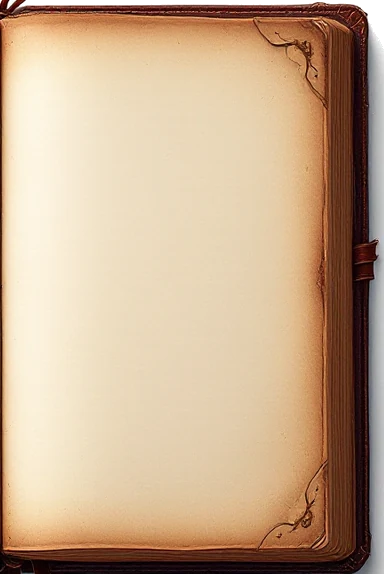
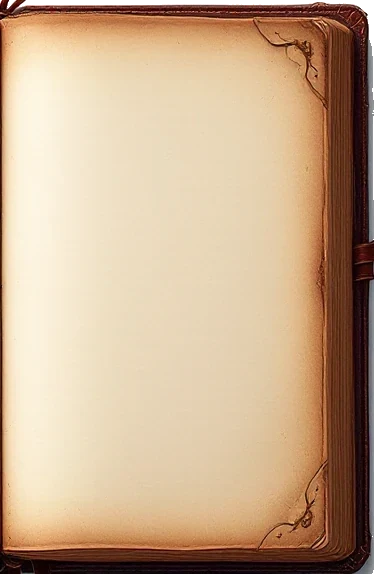
RPG-Heute: ohne Scrollen, lesbarer Kopf, hellere Tischplatte
- Rechte Spalte ab 1500 px in zwei Stapeln (Uhr/Notiz/Kalender |
  Speiseplan/Heute ist) - Stapel-Container aus js/today.js, in anderen
  Stilen display: contents mit fester order (unveraendert)
- Kopf: staerkerer Verlauf, kraeftigeres Datum, sichtbare KW-Knoepfe
- Tischplatte bei Tag mit hellerem Schleier
- Tagebuch: grauer Schattenrest am rechten Rand entfernt

diff --git a/css/today-rpg.css b/css/today-rpg.css
@@ -16,7 +16,9 @@
 
 [data-today-style="rpg"] #view-today {
   --today-frame:      color-mix(in srgb, var(--amber) 30%, var(--shadow-tint));
-  --today-board-veil: color-mix(in srgb, color-mix(in srgb, var(--bg) 55%, var(--amber)) 14%, transparent);
+  /* Tag: warmer heller Schleier über dem Mahagoni — sonst wirkt der
+     Schreibtisch bei Tageslicht zu dunkel (nachts bleibt er dunkel) */
+  --today-board-veil: color-mix(in srgb, color-mix(in srgb, var(--bg) 70%, var(--amber)) 34%, transparent);
 }
 [data-today-style="rpg"][data-theme-family="dark"] #view-today {
   --today-board-veil: color-mix(in srgb, var(--bg) 55%, transparent);
@@ -41,6 +43,39 @@
 [data-today-style="rpg"] #today-main  { padding: 18px 20px 26px; gap: 22px; }
 [data-today-style="rpg"] #today-right { padding: 22px 16px 24px; gap: 24px; width: 330px; box-sizing: border-box; }
 [data-today-style="rpg"] #today-layout { grid-template-columns: 1fr 330px; }
+
+/* Banner-Text: auf dem Bild stärker als im Standard (Datum, Tracker, KW) */
+[data-today-style="rpg"] #today-main-header {
+  --text-2: color-mix(in srgb, var(--text) 88%, transparent);
+  --text-3: color-mix(in srgb, var(--text) 78%, transparent);
+}
+[data-today-style="rpg"] #today-main-header::before {
+  background-image:
+    linear-gradient(100deg,
+      color-mix(in srgb, var(--surface-solid) 94%, transparent) 0%,
+      color-mix(in srgb, var(--surface-solid) 80%, transparent) 28%,
+      color-mix(in srgb, var(--surface-solid) 40%, transparent) 52%,
+      color-mix(in srgb, var(--surface-solid) 10%, transparent) 78%,
+      transparent 100%),
+    var(--today-header-img) !important;
+}
+[data-today-style="rpg"][data-theme-family="dark"] #today-main-header::before {
+  background-image:
+    linear-gradient(100deg,
+      color-mix(in srgb, var(--bg) 94%, transparent) 0%,
+      color-mix(in srgb, var(--bg) 80%, transparent) 28%,
+      color-mix(in srgb, var(--bg) 40%, transparent) 52%,
+      color-mix(in srgb, var(--bg) 10%, transparent) 78%,
+      transparent 100%),
+    var(--today-header-img) !important;
+}
+[data-today-style="rpg"] #today-main-header .today-subtitle { font-weight: 600; }
+[data-today-style="rpg"] #week-nav :is(.week-btn, #week-label, .week-today-btn) {
+  background: color-mix(in srgb, var(--surface-solid) 82%, transparent);
+  border: 1px solid var(--border-strong);
+  color: var(--text);
+}
+[data-today-style="rpg"] #week-nav #week-label { padding: 2px 10px; border-radius: 99px; font-weight: 600; }
 
 /* Banner: dunkler Holzrahmen, damit er auf dem Brett „eingelassen“ wirkt */
 [data-today-style="rpg"] #today-main-header {
@@ -446,3 +481,30 @@
   border-image: url('../assets/today/wallcal.webp') 215 50 30 50 fill / 50px 12px 7px 12px / 0 round stretch;
 }
 [data-today-style="rpg"] #today-mini-cal::after { display: none; }
+
+/* ── Breite Bildschirme: zwei Stapel rechts, damit alles ohne Scrollen
+   passt (Uhr · Schnellnotiz · Kalender | Speiseplan · Heute ist).
+   Die Stapel-Container legt js/today.js an (initTodayRightStacks). */
+@media (min-width: 1500px) {
+  [data-today-style="rpg"] #today-layout { grid-template-columns: 1fr 640px; }
+  [data-today-style="rpg"] #today-right {
+    width: 640px;
+    display: grid;
+    grid-template-columns: 1fr 1fr;
+    gap: 20px;
+    align-items: start;
+  }
+  [data-today-style="rpg"] .today-right-stack {
+    display: flex;
+    flex-direction: column;
+    gap: 22px;
+    min-width: 0;
+  }
+  [data-today-style="rpg"] .rpg-clock-art { width: min(150px, 62%); }
+  /* etwas dichter, damit auch mit Terminliste im Kalender alles passt */
+  [data-today-style="rpg"] #today-main { gap: 16px; padding-bottom: 20px; }
+  [data-today-style="rpg"] #today-right { padding-top: 16px; padding-bottom: 8px; }
+  [data-today-style="rpg"] .today-right-stack { gap: 16px; }
+  [data-today-style="rpg"] #panel-quicknote #quicknote { min-height: 104px; max-height: 136px; }
+  [data-today-style="rpg"] .rpg-clock-label { padding: 8px 18px 7px; }
+}

diff --git a/js/today.js b/js/today.js
@@ -1106,6 +1106,42 @@ document.addEventListener('visibilitychange', () => {
 
 
 // =========================
+// RECHTE SPALTE IN ZWEI STAPEL
+// Die Widgets der rechten Spalte (Uhr, Schnellnotiz, Speiseplan,
+// Mini-Kalender, „Heute ist“) landen in zwei Container. Standard-CSS
+// macht die Container unsichtbar (display: contents + feste order) — das
+// Layout aller Themes bleibt wie bisher. Erst css/today-rpg.css stellt
+// sie auf breiten Bildschirmen nebeneinander, damit Heute ohne Scrollen
+// auf eine Seite passt (today.md: „ohne Scrollen sichtbar“).
+// Speiseplan und „Heute ist“ werden später von ihren eigenen Dateien
+// angehängt — ein MutationObserver sortiert jedes neue Widget ein.
+// =========================
+const TODAY_RIGHT_STACKS = {
+  'clock-sidebar-panel': 0, 'panel-quicknote': 0, 'today-mini-cal': 0,
+  'mealplan-widget': 1, 'national-day-widget': 1,
+};
+(function initTodayRightStacks() {
+  const right = document.getElementById('today-right');
+  if (!right) return;
+  const stacks = [0, 1].map(i => {
+    const el = document.createElement('div');
+    el.className = 'today-right-stack';
+    el.dataset.stack = i;
+    right.appendChild(el);
+    return el;
+  });
+  const sort = () => {
+    [...right.children].forEach(child => {
+      if (child.classList.contains('today-right-stack')) return;
+      const i = TODAY_RIGHT_STACKS[child.id] ?? 1;
+      stacks[i].appendChild(child);
+    });
+  };
+  sort();
+  new MutationObserver(sort).observe(right, { childList: true });
+})();
+
+// =========================
 // SUCHQUELLE (js/hub-search.js, AI documentation/search.md) — nur lesen;
 // open() springt zum Eintrag über die Funktionen dieses Tabs.
 // =========================

diff --git a/css/today.css b/css/today.css
@@ -104,6 +104,15 @@
 #today-main { display: flex; flex-direction: column; gap: 14px; min-width: 0; background: var(--dash-bg); border: 1px solid var(--dash-border); border-radius: var(--radius-xl); box-shadow: var(--dash-shadow); padding: 20px 18px 20px; }
 /* Sidebar: feste Breite, kein flex-shrink */
 #today-right { display: flex; flex-direction: column; gap: 12px; position: sticky; top: 24px; width: 314px; }
+/* Stapel-Container (js/today.js: initTodayRightStacks) — standardmäßig
+   unsichtbar; die feste order hält die gewohnte Reihenfolge, egal in
+   welchem Stapel ein Widget steckt. Nur der RPG-Stil zeigt zwei Spalten. */
+.today-right-stack { display: contents; }
+#clock-sidebar-panel { order: 1; }
+#panel-quicknote     { order: 2; }
+#mealplan-widget     { order: 3; }
+#today-mini-cal      { order: 4; }
+#national-day-widget { order: 5; }
 
 /* ═══════════════════════════════════════════════════════════
    BLOCKS SECTION

diff --git a/js/nook-version.js b/js/nook-version.js
@@ -17,6 +17,7 @@ window.NOOK_CHANGELOG = [
     version: '2026.10.11',
     date: '2026-10-27',
     items: [
+      'RPG-Heute: passt auf breiten Bildschirmen ohne Scrollen auf eine Seite (rechte Spalte in zwei Stapeln), Datum und KW-Knöpfe im Kopf besser lesbar, Tischplatte bei Tag heller, Tagebuch ohne grauen Rand',
       'RPG-Heute: „Der Schreibtisch des Reisenden“ – Mahagoni-Tischplatte statt Bretterwand, Aufgaben im aufgeschlagenen Reisetagebuch (über beide Seiten), Unterrichtsblöcke als Messingschilder, Speiseplan auf der Kreidetafel, Gruppenpflichten als Brief mit Wachssiegel, Schnellnotiz als Notizblatt mit Büroklammer, Mini-Kalender als Abreißkalender',
     ],
   },

diff --git a/AI documentation/today.md b/AI documentation/today.md
@@ -182,6 +182,8 @@ Im Heute-Stil `rpg` (Theme-Engine, `data-today-style="rpg"`, css/today-rpg.css) 
 
 Regel für neue Widgets im RPG-Stil: lieber ein eigener Gegenstand als noch ein Pergament-Zettel; keine Szene, in die Inhalte gequetscht werden.
 
+Ohne Scrollen: Ab 1500 px Breite stehen die Widgets der rechten Spalte im RPG-Stil in zwei Stapeln nebeneinander (Uhr · Schnellnotiz · Kalender | Speiseplan · Heute ist). Die Stapel-Container legt `initTodayRightStacks()` in js/today.js an; in allen anderen Stilen sind sie `display: contents` mit fester `order`, das Layout bleibt dort unverändert. Neue Widgets der rechten Spalte in `TODAY_RIGHT_STACKS` eintragen (sonst Stapel 2).
+
 ---
 
 # Verschoben nach Pinnwand
